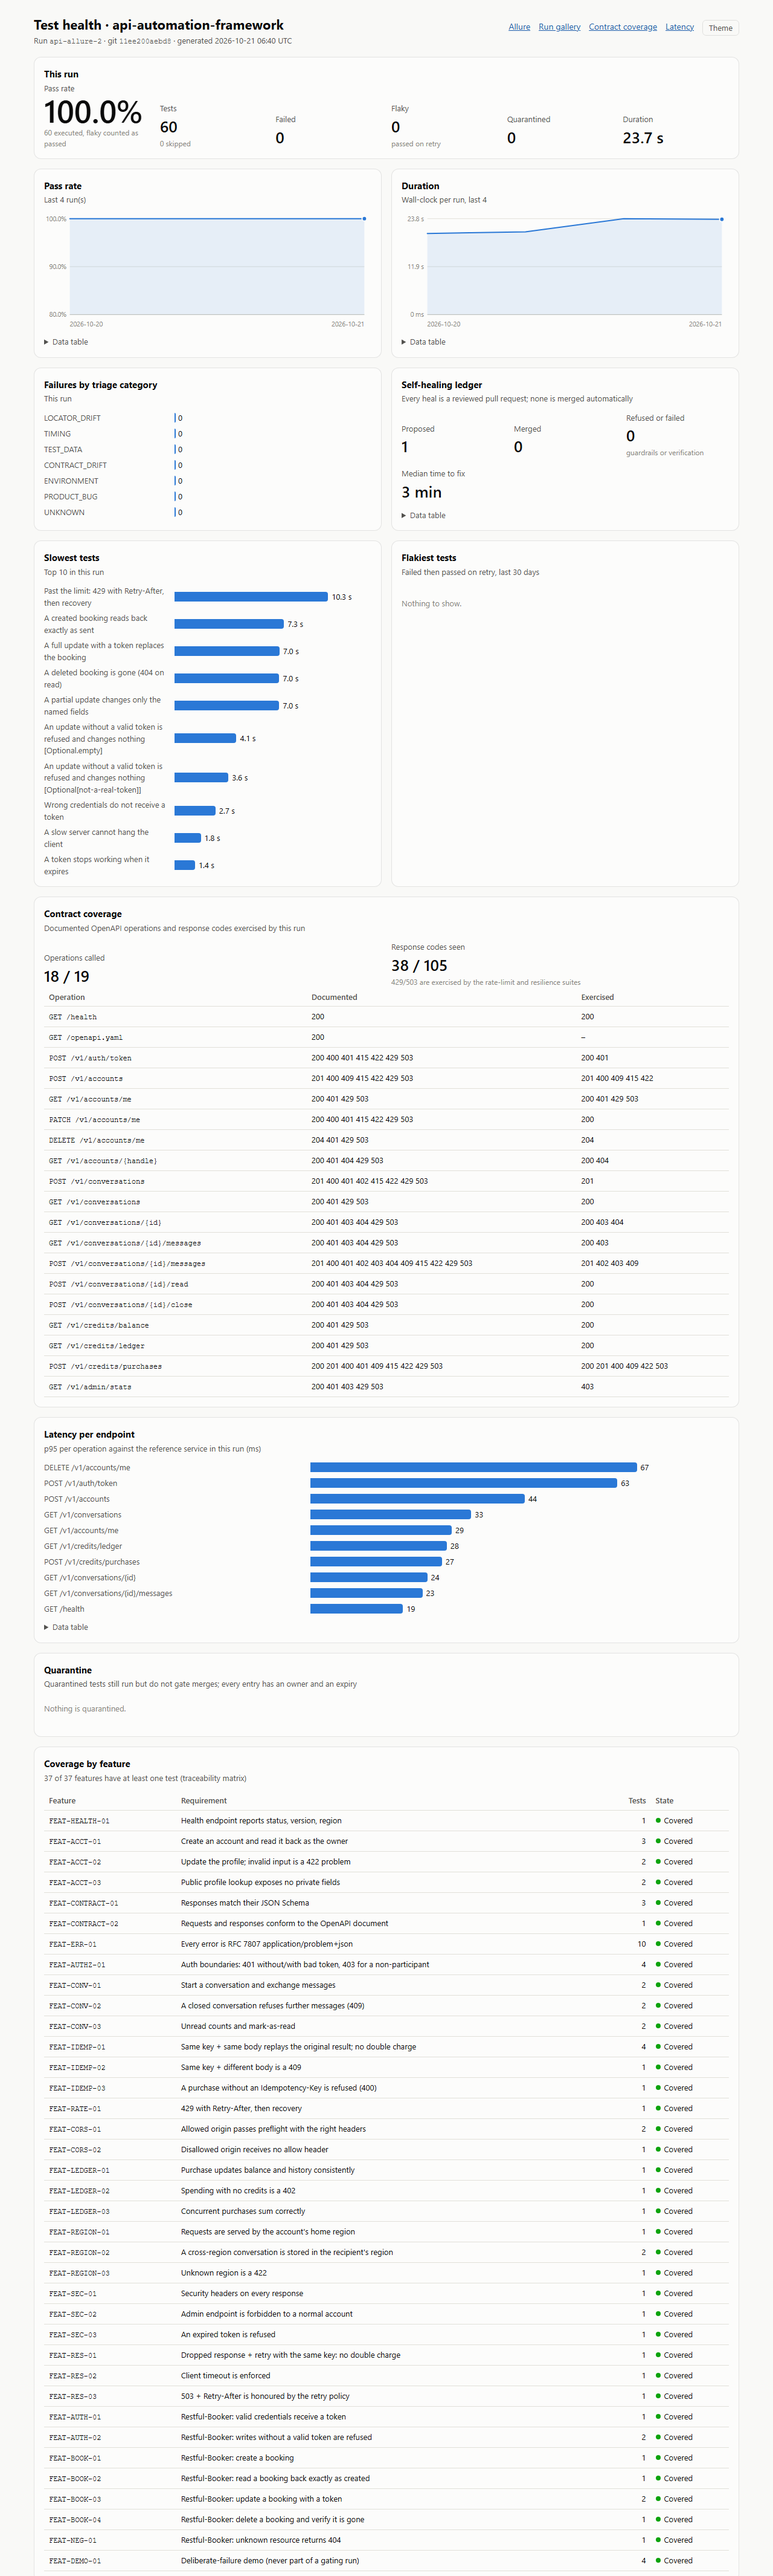
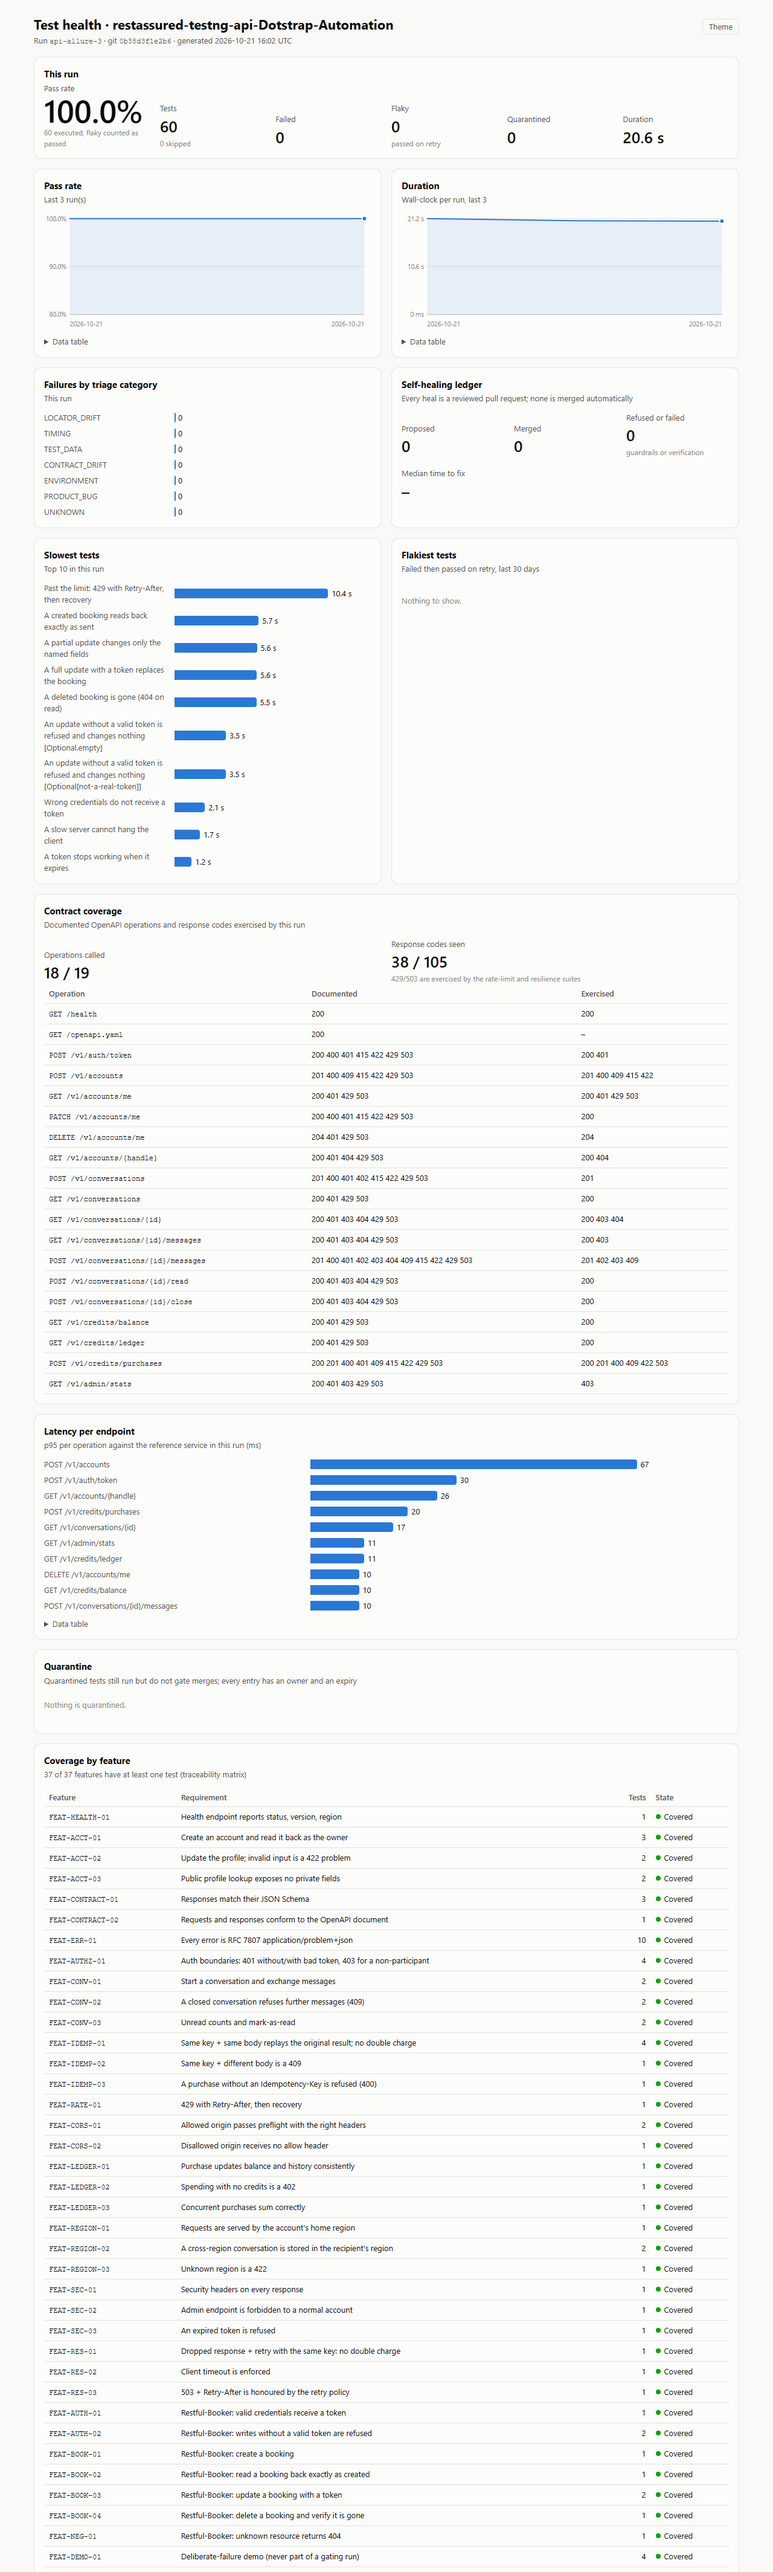
docs(examples): dashboard, gallery, Allure and a failure bundle under the new name
All from new runs (api-allure-1..3, api-demo-7): the earlier images and
files showed the old repository name.

diff --git a/docs/examples/failure-evidence/timeline.html b/docs/examples/failure-evidence/timeline.html
@@ -19,13 +19,13 @@ td{padding:6px 8px;border-bottom:1px solid var(--line);vertical-align:middle}
 code{font-size:13px}
 </style></head><body>
 <h1>DEMO: a polled condition that never becomes true</h1>
-<p>com.qaautomation.tests.demo.DeliberateFailureTest#conditionNeverMetFails · failed · 7 call(s) over 2240 ms</p>
-<table><tr><td class="n">1</td><td class="call"><code>POST /v1/accounts</code></td><td class="s ok">201</td><td class="ms">14 ms</td><td class="bar"><span class="ok" style="left:0.00%;width:0.63%" title="+0 ms"></span></td></tr>
-<tr><td class="n">2</td><td class="call"><code>POST /v1/auth/token</code></td><td class="s ok">200</td><td class="ms">32 ms</td><td class="bar"><span class="ok" style="left:24.15%;width:1.43%" title="+541 ms"></span></td></tr>
-<tr><td class="n">3</td><td class="call"><code>GET /v1/credits/balance</code></td><td class="s ok">200</td><td class="ms">11 ms</td><td class="bar"><span class="ok" style="left:26.25%;width:0.60%" title="+588 ms"></span></td></tr>
-<tr><td class="n">4</td><td class="call"><code>GET /v1/credits/balance</code></td><td class="s ok">200</td><td class="ms">8 ms</td><td class="bar"><span class="ok" style="left:50.13%;width:0.60%" title="+1123 ms"></span></td></tr>
-<tr><td class="n">5</td><td class="call"><code>GET /v1/credits/balance</code></td><td class="s ok">200</td><td class="ms">14 ms</td><td class="bar"><span class="ok" style="left:73.88%;width:0.63%" title="+1655 ms"></span></td></tr>
-<tr><td class="n">6</td><td class="call"><code>DELETE /v1/accounts/me</code></td><td class="s ok">204</td><td class="ms">12 ms</td><td class="bar"><span class="ok" style="left:97.86%;width:0.60%" title="+2192 ms"></span></td></tr>
-<tr><td class="n">7</td><td class="call"><code>POST /v1/auth/token</code></td><td class="s warn">401</td><td class="ms">12 ms</td><td class="bar"><span class="warn" style="left:99.46%;width:0.60%" title="+2228 ms"></span></td></tr>
+<p>com.qaautomation.tests.demo.DeliberateFailureTest#conditionNeverMetFails · failed · 7 call(s) over 2138 ms</p>
+<table><tr><td class="n">1</td><td class="call"><code>POST /v1/accounts</code></td><td class="s ok">201</td><td class="ms">8 ms</td><td class="bar"><span class="ok" style="left:0.19%;width:0.60%" title="+4 ms"></span></td></tr>
+<tr><td class="n">2</td><td class="call"><code>POST /v1/auth/token</code></td><td class="s ok">200</td><td class="ms">8 ms</td><td class="bar"><span class="ok" style="left:24.74%;width:0.60%" title="+529 ms"></span></td></tr>
+<tr><td class="n">3</td><td class="call"><code>GET /v1/credits/balance</code></td><td class="s ok">200</td><td class="ms">5 ms</td><td class="bar"><span class="ok" style="left:25.49%;width:0.60%" title="+545 ms"></span></td></tr>
+<tr><td class="n">4</td><td class="call"><code>GET /v1/credits/balance</code></td><td class="s ok">200</td><td class="ms">5 ms</td><td class="bar"><span class="ok" style="left:50.37%;width:0.60%" title="+1077 ms"></span></td></tr>
+<tr><td class="n">5</td><td class="call"><code>GET /v1/credits/balance</code></td><td class="s ok">200</td><td class="ms">5 ms</td><td class="bar"><span class="ok" style="left:75.12%;width:0.60%" title="+1606 ms"></span></td></tr>
+<tr><td class="n">6</td><td class="call"><code>DELETE /v1/accounts/me</code></td><td class="s ok">204</td><td class="ms">5 ms</td><td class="bar"><span class="ok" style="left:99.06%;width:0.60%" title="+2118 ms"></span></td></tr>
+<tr><td class="n">7</td><td class="call"><code>POST /v1/auth/token</code></td><td class="s warn">401</td><td class="ms">6 ms</td><td class="bar"><span class="warn" style="left:99.72%;width:0.60%" title="+2132 ms"></span></td></tr>
 </table>
 </body></html>

diff --git a/docs/examples/failure-evidence/transcript.md b/docs/examples/failure-evidence/transcript.md
@@ -12,32 +12,32 @@ Secrets (tokens, passwords, credential headers) are masked as `****`.
 
 | # | Call | Status | ms | Correlation ID |
 |---|---|---|---|---|
-| 1 | `POST /v1/accounts` | 201 | 14 | `qa-3ca3388f-2564-4b44-b6db-9ccc746d391c` |
-| 2 | `POST /v1/auth/token` | 200 | 32 | `qa-63864ed1-bb9d-4f47-9afe-6b133e0349ff` |
-| 3 | `GET /v1/credits/balance` | 200 | 11 | `qa-9b8e7b15-0f5f-4f89-bc01-b0cc87105862` |
-| 4 | `GET /v1/credits/balance` | 200 | 8 | `qa-8ef319a5-85bd-4369-98fc-6a8007c208fd` |
-| 5 | `GET /v1/credits/balance` | 200 | 14 | `qa-040b134c-31e2-40b7-b816-dc4bd5e758de` |
-| 6 | `DELETE /v1/accounts/me` | 204 | 12 | `qa-0dfecc5a-cc9d-47f0-b884-25f7bf8f4347` |
-| 7 | `POST /v1/auth/token` | 401 | 12 | `qa-84b9f58a-d674-4455-9a65-c7a03df68b27` |
+| 1 | `POST /v1/accounts` | 201 | 8 | `qa-04996e5c-939f-4a64-8479-3880df5cf025` |
+| 2 | `POST /v1/auth/token` | 200 | 8 | `qa-2654789c-2da4-4adc-9188-15643ca89de1` |
+| 3 | `GET /v1/credits/balance` | 200 | 5 | `qa-dfe85eac-f77c-4f15-b62c-76ec83efd298` |
+| 4 | `GET /v1/credits/balance` | 200 | 5 | `qa-f0e388e8-a2be-4e90-86a5-46b64e55ceb3` |
+| 5 | `GET /v1/credits/balance` | 200 | 5 | `qa-e5f81fe8-044c-4bcc-bf6f-48ef69f378e5` |
+| 6 | `DELETE /v1/accounts/me` | 204 | 5 | `qa-7f93798f-1c96-4a53-be66-28b1101b6444` |
+| 7 | `POST /v1/auth/token` | 401 | 6 | `qa-8601101d-c6a9-40ed-9a96-cf7a3a3efbbe` |
 
 ## 1. POST /v1/accounts
 
 ```text
 #1 POST http://localhost:7070/v1/accounts
-correlation: qa-3ca3388f-2564-4b44-b6db-9ccc746d391c
+correlation: qa-04996e5c-939f-4a64-8479-3880df5cf025
 
 --- request headers ---
 Accept: application/json
-X-Correlation-Id: qa-3ca3388f-2564-4b44-b6db-9ccc746d391c
+X-Correlation-Id: qa-04996e5c-939f-4a64-8479-3880df5cf025
 Content-Type: application/json
 
 --- request body ---
-{"handle":"qa-f64ae8090c7f","displayName":"QA f64ae8090c7f","password":"****","region":"eu"}
+{"handle":"qa-97f5a016198c","displayName":"QA 97f5a016198c","password":"****","region":"eu"}
 
---- response: 201 in 14 ms ---
-Date: Wed, 21 Oct 2026 14:49:51 GMT
+--- response: 201 in 8 ms ---
+Date: Wed, 21 Oct 2026 16:02:54 GMT
 Content-Type: application/json
-X-Correlation-Id: qa-3ca3388f-2564-4b44-b6db-9ccc746d391c
+X-Correlation-Id: qa-04996e5c-939f-4a64-8479-3880df5cf025
 X-Content-Type-Options: nosniff
 X-Frame-Options: DENY
 Content-Security-Policy: default-src 'none'; frame-ancestors 'none'
@@ -48,31 +48,31 @@ Vary: Origin
 RateLimit-Limit: 600
 RateLimit-Remaining: 578
 RateLimit-Reset: 8
-Location: /v1/accounts/qa-f64ae8090c7f
+Location: /v1/accounts/qa-97f5a016198c
 X-Served-Region: eu
 Content-Length: 181
 
-{"id":"acc_0cadb294-2e05-44b3-95ca-2838c4ba5209","handle":"qa-f64ae8090c7f","displayName":"QA f64ae8090c7f","region":"eu","role":"user","createdAt":"2026-10-21T14:49:51.017689400Z"}
+{"id":"acc_e60a7f4f-fd90-4b18-b162-74e2ed1b2a9f","handle":"qa-97f5a016198c","displayName":"QA 97f5a016198c","region":"eu","role":"user","createdAt":"2026-10-21T16:02:54.875613300Z"}
 ```
 
 ## 2. POST /v1/auth/token
 
 ```text
 #2 POST http://localhost:7070/v1/auth/token
-correlation: qa-63864ed1-bb9d-4f47-9afe-6b133e0349ff
+correlation: qa-2654789c-2da4-4adc-9188-15643ca89de1
 
 --- request headers ---
 Accept: application/json
-X-Correlation-Id: qa-63864ed1-bb9d-4f47-9afe-6b133e0349ff
+X-Correlation-Id: qa-2654789c-2da4-4adc-9188-15643ca89de1
 Content-Type: application/json
 
 --- request body ---
-{"handle":"qa-f64ae8090c7f","password":"****"}
+{"handle":"qa-97f5a016198c","password":"****"}
 
---- response: 200 in 32 ms ---
-Date: Wed, 21 Oct 2026 14:49:51 GMT
+--- response: 200 in 8 ms ---
+Date: Wed, 21 Oct 2026 16:02:55 GMT
 Content-Type: application/json
-X-Correlation-Id: qa-63864ed1-bb9d-4f47-9afe-6b133e0349ff
+X-Correlation-Id: qa-2654789c-2da4-4adc-9188-15643ca89de1
 X-Content-Type-Options: nosniff
 X-Frame-Options: DENY
 Content-Security-Policy: default-src 'none'; frame-ancestors 'none'
@@ -85,24 +85,24 @@ RateLimit-Remaining: 577
 RateLimit-Reset: 7
 Content-Length: 153
 
-{"accessToken":"****","tokenType":"Bearer","expiresIn":900,"accountId":"acc_0cadb294-2e05-44b3-95ca-2838c4ba5209"}
+{"accessToken":"****","tokenType":"Bearer","expiresIn":900,"accountId":"acc_e60a7f4f-fd90-4b18-b162-74e2ed1b2a9f"}
 ```
 
 ## 3. GET /v1/credits/balance
 
 ```text
 #3 GET http://localhost:7070/v1/credits/balance
-correlation: qa-9b8e7b15-0f5f-4f89-bc01-b0cc87105862
+correlation: qa-dfe85eac-f77c-4f15-b62c-76ec83efd298
 
 --- request headers ---
 Accept: application/json
-X-Correlation-Id: qa-9b8e7b15-0f5f-4f89-bc01-b0cc87105862
+X-Correlation-Id: qa-dfe85eac-f77c-4f15-b62c-76ec83efd298
 Content-Type: application/json
 
---- response: 200 in 11 ms ---
-Date: Wed, 21 Oct 2026 14:49:51 GMT
+--- response: 200 in 5 ms ---
+Date: Wed, 21 Oct 2026 16:02:55 GMT
 Content-Type: application/json
-X-Correlation-Id: qa-9b8e7b15-0f5f-4f89-bc01-b0cc87105862
+X-Correlation-Id: qa-dfe85eac-f77c-4f15-b62c-76ec83efd298
 X-Content-Type-Options: nosniff
 X-Frame-Options: DENY
 Content-Security-Policy: default-src 'none'; frame-ancestors 'none'
@@ -116,24 +116,24 @@ RateLimit-Reset: 10
 X-Served-Region: eu
 Content-Length: 89
 
-{"balance":5,"currency":"credits","accountId":"acc_0cadb294-2e05-44b3-95ca-2838c4ba5209"}
+{"balance":5,"currency":"credits","accountId":"acc_e60a7f4f-fd90-4b18-b162-74e2ed1b2a9f"}
 ```
 
 ## 4. GET /v1/credits/balance
 
 ```text
 #4 GET http://localhost:7070/v1/credits/balance
-correlation: qa-8ef319a5-85bd-4369-98fc-6a8007c208fd
+correlation: qa-f0e388e8-a2be-4e90-86a5-46b64e55ceb3
 
 --- request headers ---
 Accept: application/json
-X-Correlation-Id: qa-8ef319a5-85bd-4369-98fc-6a8007c208fd
+X-Correlation-Id: qa-f0e388e8-a2be-4e90-86a5-46b64e55ceb3
 Content-Type: application/json
 
---- response: 200 in 8 ms ---
-Date: Wed, 21 Oct 2026 14:49:52 GMT
+--- response: 200 in 5 ms ---
+Date: Wed, 21 Oct 2026 16:02:55 GMT
 Content-Type: application/json
-X-Correlation-Id: qa-8ef319a5-85bd-4369-98fc-6a8007c208fd
+X-Correlation-Id: qa-f0e388e8-a2be-4e90-86a5-46b64e55ceb3
 X-Content-Type-Options: nosniff
 X-Frame-Options: DENY
 Content-Security-Policy: default-src 'none'; frame-ancestors 'none'
@@ -147,24 +147,24 @@ RateLimit-Reset: 10
 X-Served-Region: eu
 Content-Length: 89
 
-{"balance":5,"currency":"credits","accountId":"acc_0cadb294-2e05-44b3-95ca-2838c4ba5209"}
+{"balance":5,"currency":"credits","accountId":"acc_e60a7f4f-fd90-4b18-b162-74e2ed1b2a9f"}
 ```
 
 ## 5. GET /v1/credits/balance
 
 ```text
 #5 GET http://localhost:7070/v1/credits/balance
-correlation: qa-040b134c-31e2-40b7-b816-dc4bd5e758de
+correlation: qa-e5f81fe8-044c-4bcc-bf6f-48ef69f378e5
 
 --- request headers ---
 Accept: application/json
-X-Correlation-Id: qa-040b134c-31e2-40b7-b816-dc4bd5e758de
+X-Correlation-Id: qa-e5f81fe8-044c-4bcc-bf6f-48ef69f378e5
 Content-Type: application/json
 
---- response: 200 in 14 ms ---
-Date: Wed, 21 Oct 2026 14:49:52 GMT
+--- response: 200 in 5 ms ---
+Date: Wed, 21 Oct 2026 16:02:56 GMT
 Content-Type: application/json
-X-Correlation-Id: qa-040b134c-31e2-40b7-b816-dc4bd5e758de
+X-Correlation-Id: qa-e5f81fe8-044c-4bcc-bf6f-48ef69f378e5
 X-Content-Type-Options: nosniff
 X-Frame-Options: DENY
 Content-Security-Policy: default-src 'none'; frame-ancestors 'none'
@@ -178,24 +178,24 @@ RateLimit-Reset: 9
 X-Served-Region: eu
 Content-Length: 89
 
-{"balance":5,"currency":"credits","accountId":"acc_0cadb294-2e05-44b3-95ca-2838c4ba5209"}
+{"balance":5,"currency":"credits","accountId":"acc_e60a7f4f-fd90-4b18-b162-74e2ed1b2a9f"}
 ```
 
 ## 6. DELETE /v1/accounts/me
 
 ```text
 #6 DELETE http://localhost:7070/v1/accounts/me
-correlation: qa-0dfecc5a-cc9d-47f0-b884-25f7bf8f4347
+correlation: qa-7f93798f-1c96-4a53-be66-28b1101b6444
 
 --- request headers ---
 Accept: application/json
-X-Correlation-Id: qa-0dfecc5a-cc9d-47f0-b884-25f7bf8f4347
+X-Correlation-Id: qa-7f93798f-1c96-4a53-be66-28b1101b6444
 Content-Type: application/json
 
---- response: 204 in 12 ms ---
-Date: Wed, 21 Oct 2026 14:49:53 GMT
+--- response: 204 in 5 ms ---
+Date: Wed, 21 Oct 2026 16:02:56 GMT
 Content-Type: text/plain
-X-Correlation-Id: qa-0dfecc5a-cc9d-47f0-b884-25f7bf8f4347
+X-Correlation-Id: qa-7f93798f-1c96-4a53-be66-28b1101b6444
 X-Content-Type-Options: nosniff
 X-Frame-Options: DENY
 Content-Security-Policy: default-src 'none'; frame-ancestors 'none'
@@ -213,20 +213,20 @@ X-Served-Region: eu
 
 ```text
 #7 POST http://localhost:7070/v1/auth/token
-correlation: qa-84b9f58a-d674-4455-9a65-c7a03df68b27
+correlation: qa-8601101d-c6a9-40ed-9a96-cf7a3a3efbbe
 
 --- request headers ---
 Accept: application/json
-X-Correlation-Id: qa-84b9f58a-d674-4455-9a65-c7a03df68b27
+X-Correlation-Id: qa-8601101d-c6a9-40ed-9a96-cf7a3a3efbbe
 Content-Type: application/json
 
 --- request body ---
-{"handle":"qa-f64ae8090c7f","password":"****"}
+{"handle":"qa-97f5a016198c","password":"****"}
 
---- response: 401 in 12 ms ---
-Date: Wed, 21 Oct 2026 14:49:53 GMT
+--- response: 401 in 6 ms ---
+Date: Wed, 21 Oct 2026 16:02:57 GMT
 Content-Type: application/problem+json
-X-Correlation-Id: qa-84b9f58a-d674-4455-9a65-c7a03df68b27
+X-Correlation-Id: qa-8601101d-c6a9-40ed-9a96-cf7a3a3efbbe
 X-Content-Type-Options: nosniff
 X-Frame-Options: DENY
 Content-Security-Policy: default-src 'none'; frame-ancestors 'none'
@@ -236,8 +236,8 @@ Cache-Control: no-store
 Vary: Origin
 RateLimit-Limit: 600
 RateLimit-Remaining: 576
-RateLimit-Reset: 5
+RateLimit-Reset: 6
 Content-Length: 242
 
-{"type":"https://reference-service.example/problems/invalid-credentials","title":"Invalid credentials","status":401,"detail":"Handle or password is wrong.","instance":"/v1/auth/token","correlationId":"qa-84b9f58a-d674-4455-9a65-c7a03df68b27"}
+{"type":"https://reference-service.example/problems/invalid-credentials","title":"Invalid credentials","status":401,"detail":"Handle or password is wrong.","instance":"/v1/auth/token","correlationId":"qa-8601101d-c6a9-40ed-9a96-cf7a3a3efbbe"}
 ```

diff --git a/docs/examples/README.md b/docs/examples/README.md
@@ -6,5 +6,5 @@ edit: the author's email is left out of the heal commit view).
 | Folder | From | What it shows |
 |---|---|---|
 | [self-healing-demo/](self-healing-demo/) | `api-chaos-3`, `api-chaos-healed-3` | Contract drift: 8 failures, one cause, one verified heal branch, 51/51 after |
-| [failure-evidence/](failure-evidence/) | `api-demo-6` | One failure bundle (a polled condition that never comes true, triaged `TIMING`), its report, transcript and timeline, and the run's triage summary |
-| [dashboard/](dashboard/) | `api-allure-1`, `api-allure-2` and earlier regression runs | The health dashboard (light, dark, 390 px), the run gallery of `api-demo-5`, and the Allure overview |
+| [failure-evidence/](failure-evidence/) | `api-demo-7` | One failure bundle (a polled condition that never comes true, triaged `TIMING`), its report, transcript and timeline, and the run's triage summary |
+| [dashboard/](dashboard/) | `api-allure-1`, `api-allure-2`, `api-allure-3` | The health dashboard (light, dark, 390 px) with a three-run trend, the run gallery of `api-demo-7`, and the Allure overview |

diff --git a/docs/examples/failure-evidence/failure-report.md b/docs/examples/failure-evidence/failure-report.md
@@ -7,7 +7,7 @@
 | Healable | yes |
 | Test | `com.qaautomation.tests.demo.DeliberateFailureTest#conditionNeverMetFails` |
 | Features | FEAT-DEMO-01 |
-| Run | `api-demo-6` |
+| Run | `api-demo-7` |
 
 ## Why
 
@@ -21,7 +21,7 @@ A polled condition did not become true in time.
 | operation | `/v1/credits/balance` |
 | url | `http://localhost:7070/v1/credits/balance` |
 | status | `200` |
-| correlationId | `qa-040b134c-31e2-40b7-b816-dc4bd5e758de` |
+| correlationId | `qa-e5f81fe8-044c-4bcc-bf6f-48ef69f378e5` |
 
 ## Error
 

diff --git a/docs/examples/failure-evidence/README.md b/docs/examples/failure-evidence/README.md
@@ -4,7 +4,7 @@
 |---|---|
 | Test | `com.qaautomation.tests.demo.DeliberateFailureTest#conditionNeverMetFails` |
 | Features | FEAT-DEMO-01 |
-| Run | `api-demo-6` (git `3a9008e0b120`) |
+| Run | `api-demo-7` (git `0b38d3f1e2b6`) |
 | Attempts | 2 |
 | Error | `org.awaitility.core.ConditionTimeoutException` |
 
